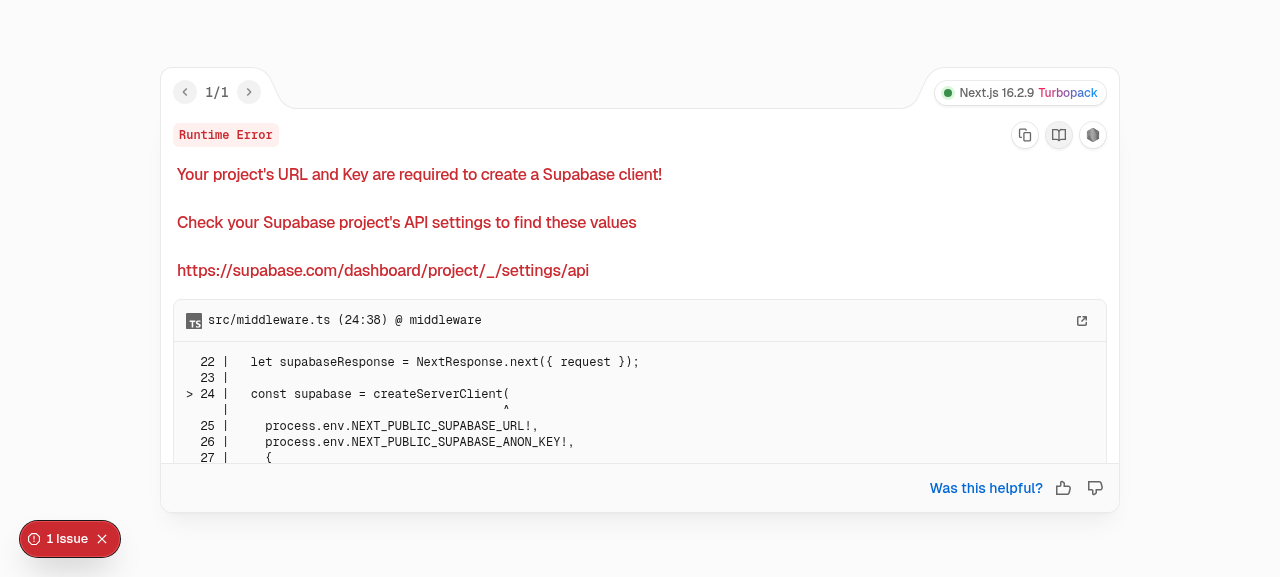
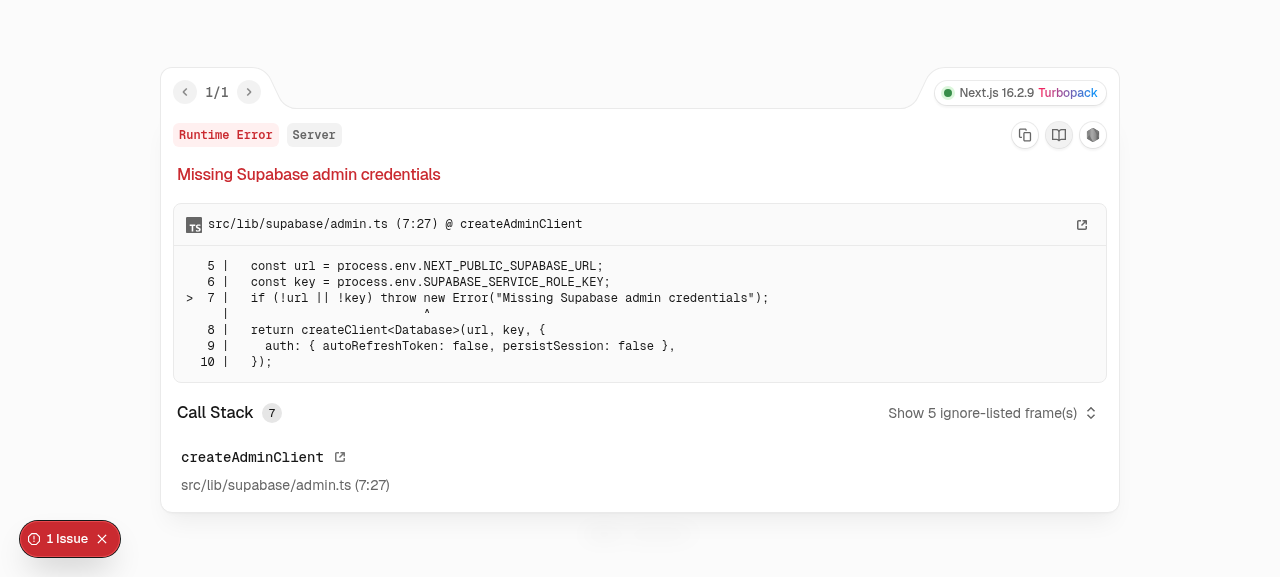
feat: add environment variable checks in middleware
Added checks for missing Supabase environment variables to bypass auth logic

diff --git a/src/middleware.ts b/src/middleware.ts
@@ -21,9 +21,17 @@ const PROTECTED_PATHS = [
 export async function middleware(request: NextRequest) {
   let supabaseResponse = NextResponse.next({ request });
 
+  const supabaseUrl = process.env.NEXT_PUBLIC_SUPABASE_URL;
+  const supabaseAnonKey = process.env.NEXT_PUBLIC_SUPABASE_ANON_KEY;
+
+  // Supabase 환경변수가 없으면 인증 로직을 건너뛰고 통과시킨다.
+  if (!supabaseUrl || !supabaseAnonKey) {
+    return supabaseResponse;
+  }
+
   const supabase = createServerClient(
-    process.env.NEXT_PUBLIC_SUPABASE_URL!,
-    process.env.NEXT_PUBLIC_SUPABASE_ANON_KEY!,
+    supabaseUrl,
+    supabaseAnonKey,
     {
       cookies: {
         getAll() {